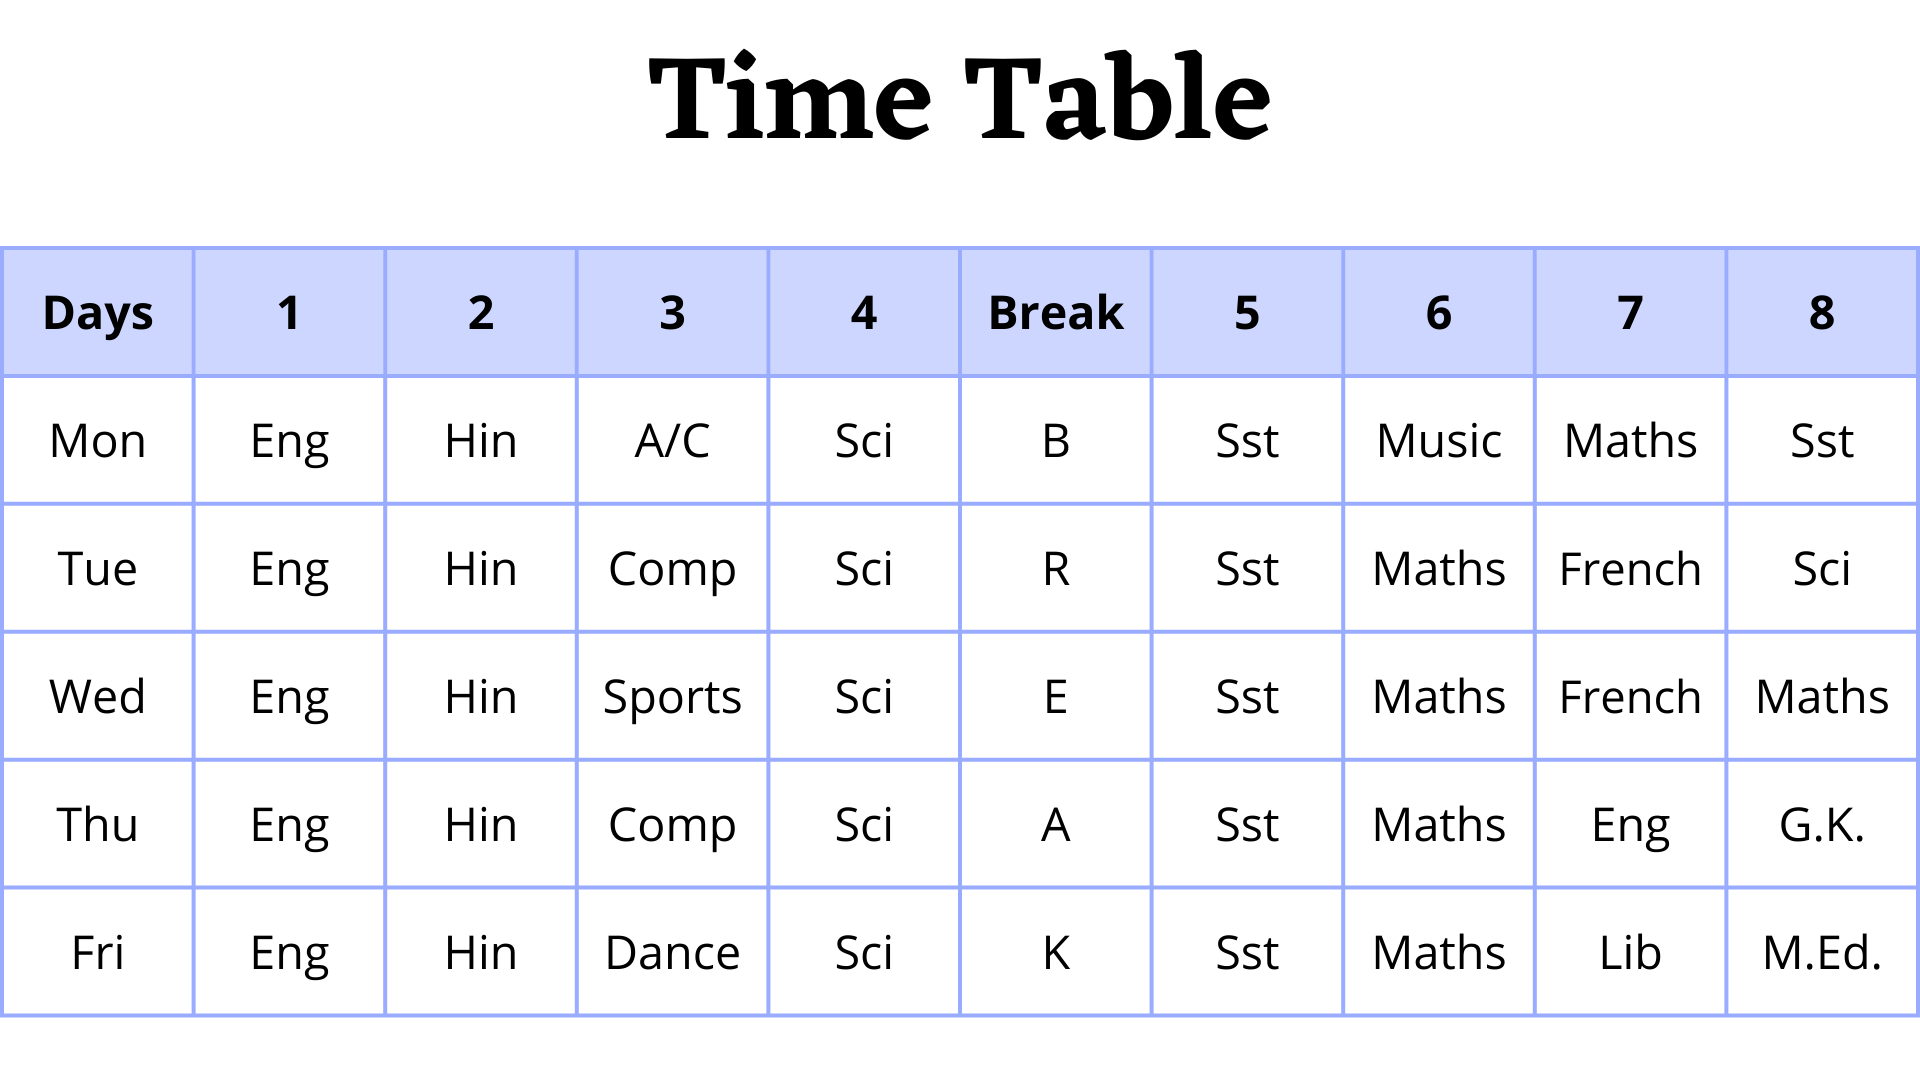
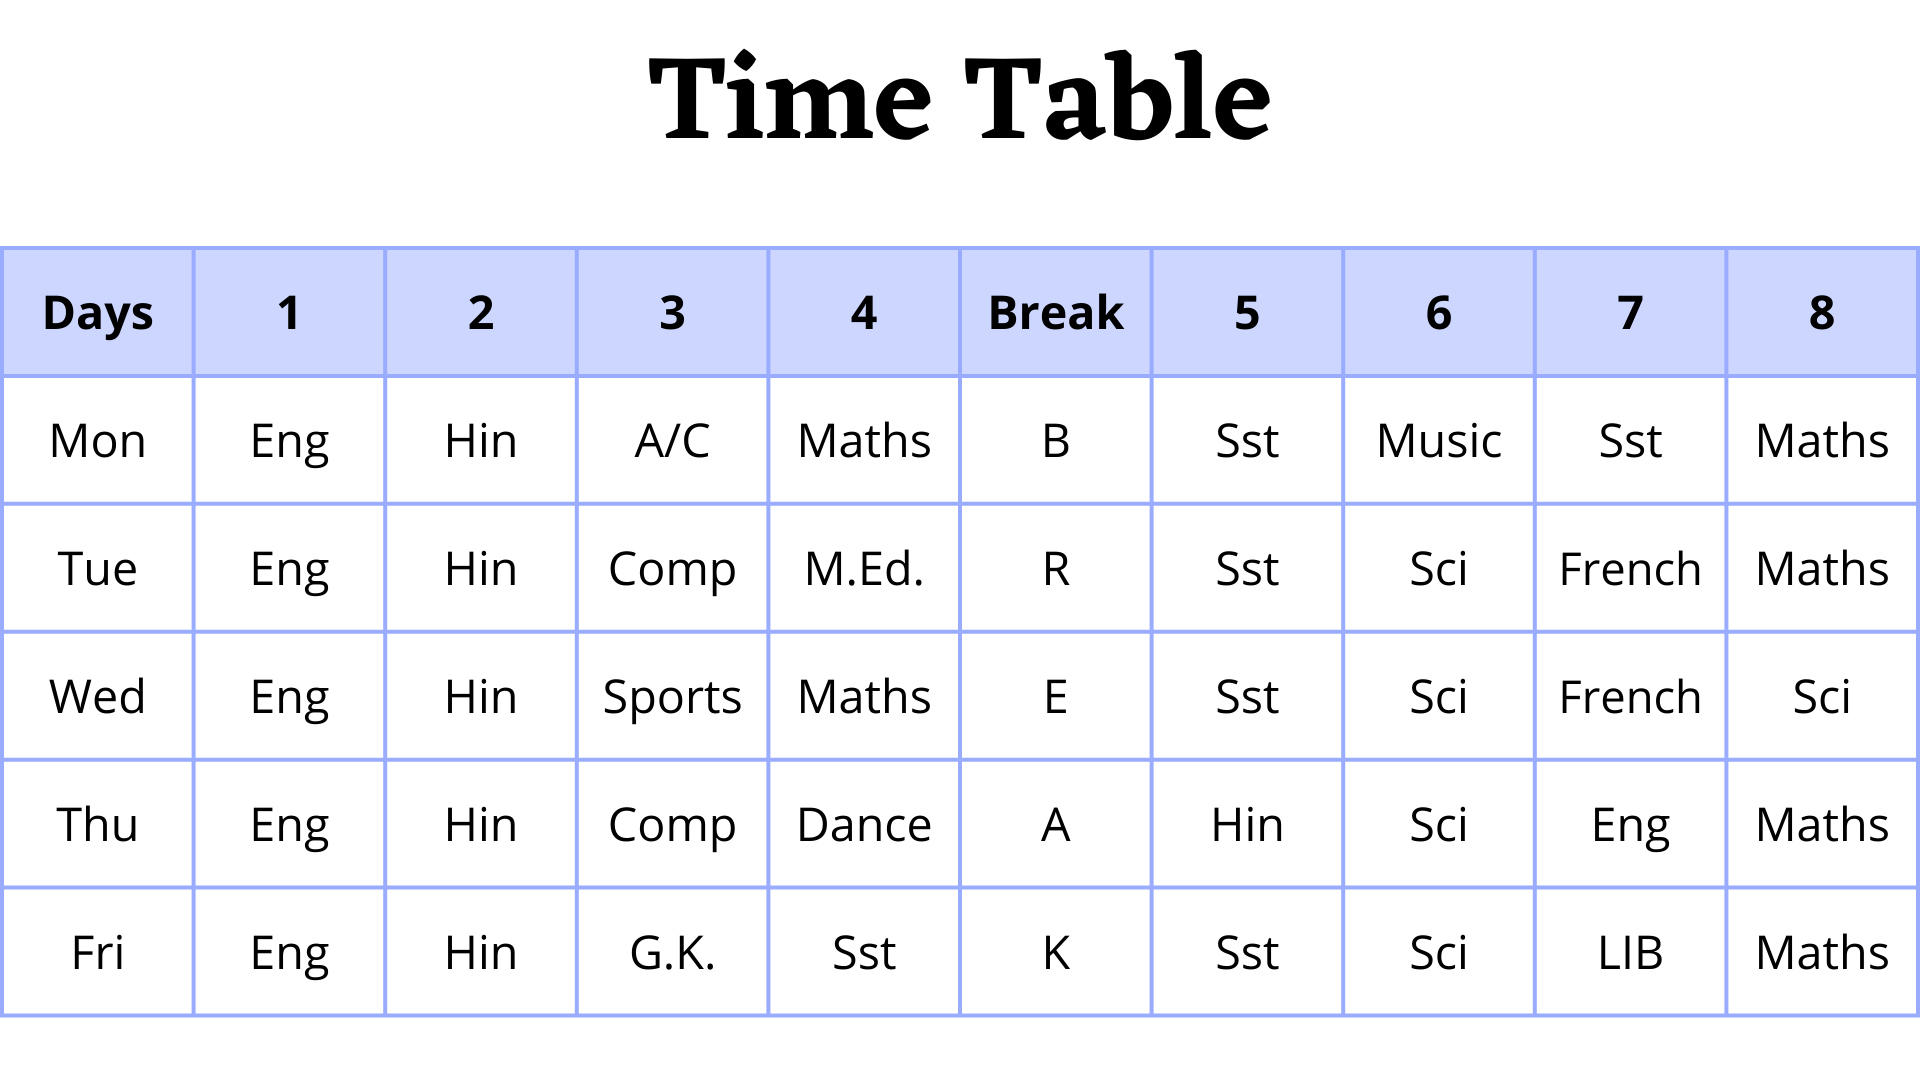
version 1.8.1 5/7/22

diff --git a/public/homework.html b/public/homework.html
@@ -104,6 +104,7 @@
   <h1>Homework</h1>
   <div class="selectingdates">
     <select name="dates" id="datesselect" id="datesselectid" onchange="datechanged()">
+      <option value="5july2022" id="5july2022">5/7/2022</option>
       <option value="4july2022" id="4july2022">4/7/2022</option>
       <option value="1july2022" id="1july2022">1/7/2022</option>
       <option value="19may2022" id="19may2022">19/5/2022</option>
@@ -777,6 +778,40 @@ So the Procedure of the activity goes as follows:- <br>
       <div class="homework-area"><h3 style='text-align:left;padding:8px'>
         General:-</h3><br>
         1.Practice dance on song mile sur.<br>
+        </div>
+      `;
+    }
+    else if (datesselectid == "5july2022") {
+      hw.innerHTML = `
+      <div class="homework-area"><h3 style='text-align:left;padding:8px'>
+        English:-</h3><br>
+        1.Revise the work done.</div>
+      <div class="homework-area"><h3 style='text-align:left;padding:8px'>
+        Hindi:-</h3><br>
+        1.Read the chapter-7.</div>
+      <div class="homework-area"><h3 style='text-align:left;padding:8px'>
+        Computer:-</h3><br>
+        1.Learn for the test of computer chapter 1 ques/ans on thursday.</div>
+      <div class="homework-area"><h3 style='text-align:left;padding:8px'>
+        Science:-</h3><br>
+        No Homework !</div>
+      <div class="homework-area"><h3 style='text-align:left;padding:8px'>
+        Sst:-</h3><br>
+        1.Do the following questions in notebook:-<br>
+        a) Write the factors on which the cultivation of land depends?<br>
+        b) What is land use? List the factors which control the utilization of land.<br>
+        c) How can we conserve land resource?</div>
+      <div class="homework-area"><h3 style='text-align:left;padding:8px'>
+        Maths:-</h3><br>
+        1.Complete the ex-11.2 till question 6.</div>
+      <div class="homework-area"><h3 style='text-align:left;padding:8px'>
+        French:-</h3><br>
+        1.Learn the possesive adjectives.<br>
+        2.Complete the possisive adjectives table given on page 117 in notebook.<br>
+        3.Do the ques 7 of lecon-2 in book.</div>
+      <div class="homework-area"><h3 style='text-align:left;padding:8px'>
+        General:-</h3><br>
+        1.The timetable has been changed please check it at the timetable section.<br>
         </div>
       `;
     }

diff --git a/public/classwork2.html b/public/classwork2.html
@@ -123,6 +123,7 @@
   <h1>Classwork</h1>
   <div class="selectingdates">
     <select name="dates" id="datesselect" id="datesselectid" onchange="datechanged()">
+      <option value="5july2022" id="5july2022">5/7/2022</option>
       <option value="4july2022" id="4july2022">4/7/2022</option>
       <option value="1july2022" id="1july2022">1/7/2022</option>
       <option value="20may2022" id="20may2022">20/5/2022</option>
@@ -337,6 +338,11 @@
     else if (datesselectid == "4july2022") {
       cw.innerHTML = `
       <a href="https://drive.google.com/file/d/1HVDBeRYFkxZ1J6et9r5atEQlbBK47MZD/view?usp=sharing" class="button button2">Go to work</a>
+      `;
+    }
+    else if (datesselectid == "5july2022") {
+      cw.innerHTML = `
+      <a href="https://drive.google.com/file/d/1z5yxTO12W1Y-z-opCiwq33UrELffO0bP/view?usp=sharing" class="button button2">Go to work</a>
       `;
     }
   }

diff --git a/public/classwork/englishclasswork.html b/public/classwork/englishclasswork.html
@@ -218,6 +218,8 @@
               class="btn effect01" target="__blank"><span>Chapter-10 (Coursebook)</span></a>
             <a href="https://drive.google.com/file/d/1sTEgOThK4jv3VmEZtrItlAqy9tRCHJIg/view?usp=sharing"
               class="btn effect01" target="__blank"><span>Chapter-4 (Litrature)</span></a>
+            <a href="https://drive.google.com/file/d/1UpS7KwPafOpVFELRgBMEiniLm4SC7L9O/view?usp=sharing"
+              class="btn effect01" target="__blank"><span>Chapter-4 (Coursebook)</span></a>
             </div>
             <div class="grammar">
               <h1 class="section-heading">Grammar</h1>
@@ -229,7 +231,7 @@
               class="btn effect01" target="__blank"><span>Letter writing</span></a>
             </div>
       </div>
-      <!-- done 4/7/22 -->
+      <!-- done 5/7/22 -->
     </div>
   </div>
 </body>

diff --git a/public/classwork/sstclasswork.html b/public/classwork/sstclasswork.html
@@ -228,6 +228,8 @@ flex-wrap: wrap;
         <h1 class="section-heading">Geography</h1>
         <a href="https://drive.google.com/file/d/1dt6viLB6U6xPcvs29GPSgZkJzDL_tDPD/view?usp=sharing"
         class="btn effect01" target="__blank"><span>Chapter-1</span></a>
+        <a href="https://drive.google.com/file/d/1C5UWZ9w-uqwVQqlBpEAZGJ_FhCPs-FC3/view?usp=sharing"
+        class="btn effect01" target="__blank"><span>Chapter-2</span></a>
       </div>
       <div class="civics">
         <h1 class="section-heading">Civics</h1>
@@ -236,7 +238,7 @@ flex-wrap: wrap;
       </div>
     </div>
     </div>
-    <!-- done 4/7/22 -->
+    <!-- done 5/7/22 -->
   </div>
 </body>
 <script>

diff --git a/public/classwork/generalclasswork.html b/public/classwork/generalclasswork.html
@@ -176,7 +176,7 @@
         <a href="https://drive.google.com/file/d/1k70lsjbHP_zbcAeOabZAw6x-S7rcgKLx/view?usp=sharing" class="btn effect01" target="__blank"><span>Art/Craft</span></a>
         <a href="https://drive.google.com/file/d/19d1Qs6Kfr1J6AYjJdBpgtBn_zWV2qu2B/view?usp=sharing" class="btn effect01" target="__blank"><span>UT 1 Datehseet</span></a>
       </div>
-      <!-- done 4/7/22 -->
+      <!-- done 5/7/22 -->
     </div>
   </div>
   </body>

diff --git a/public/classwork/scienceclasswork.html b/public/classwork/scienceclasswork.html
@@ -176,7 +176,7 @@
         <a href="https://drive.google.com/file/d/1x12C1QUK-7hA_BenYV9Po9P7zR2v2I_p/view?usp=sharing"
           class="btn effect01" target="__blank"><span>Science practicle file</span></a>
       </div>
-      <!-- done 4/7/22 -->
+      <!-- done 5/7/22 -->
     </div>
   </div>
 </body>

diff --git a/public/classwork/frenchclasswork.html b/public/classwork/frenchclasswork.html
@@ -173,7 +173,7 @@ flex-wrap: wrap;
       <a href="https://drive.google.com/file/d/1fWowseoKU3Vh_MvfqgZIthaK3Z_dHtlt/view?usp=sharing"
         class="btn effect01" target="__blank"><span>Holiday homework</span></a>
     </div>
-   <!-- done 4/7/22 -->
+   <!-- done 5/7/22 -->
   </div>
 </div>
 </body>

diff --git a/public/classwork/mathsclasswork.html b/public/classwork/mathsclasswork.html
@@ -174,7 +174,7 @@ flex-wrap: wrap;
         class="btn effect01" target="__blank"><span>Chapter-11</span></a>
         </div>
     </div>
-    <!-- done 4/7/22 -->
+    <!-- done 5/7/22 -->
   </div>
 </body>
 <script>

diff --git a/public/classwork/computerclasswork.html b/public/classwork/computerclasswork.html
@@ -169,7 +169,7 @@
         target="__blank"><span>Chapter-1</span></a>
     </div>
   </div>
-  <!-- done 4/7/22 -->
+  <!-- done 5/7/22 -->
 </div>
 </body>
 <script>

diff --git a/public/classwork/hindiclasswork.html b/public/classwork/hindiclasswork.html
@@ -248,7 +248,7 @@
         </div>
       </div>
     </div>
-    <!-- done 4/7/22 -->
+    <!-- done 5/7/22 -->
   </div>
 </body>
 <script>
